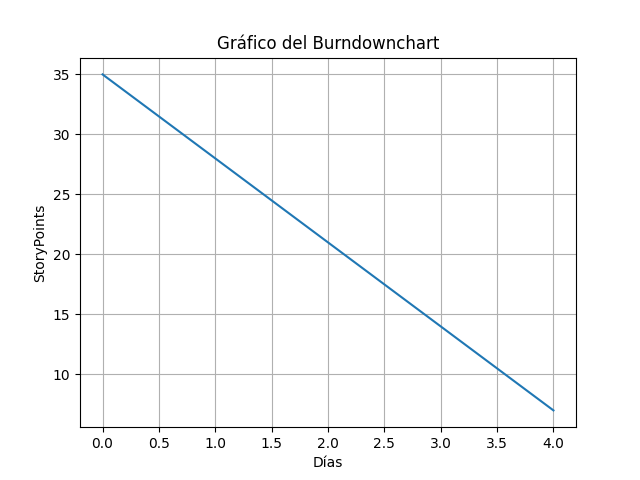
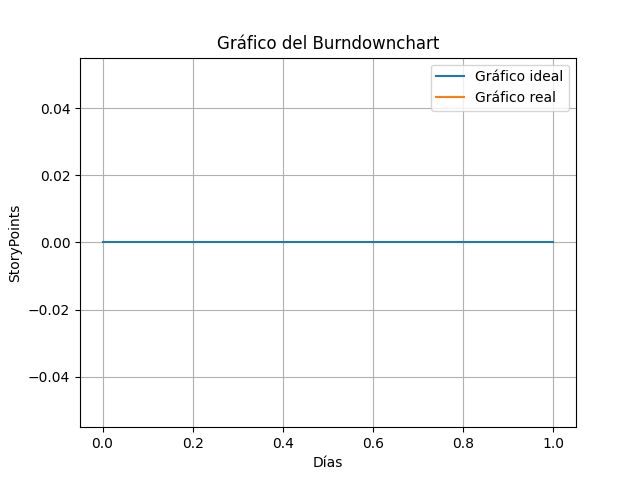
grafico ideal, ok

diff --git a/sprint/templates/sprint_kanban.html b/sprint/templates/sprint_kanban.html
@@ -87,9 +87,11 @@
                                    class="btn btn-primary">Sprint Backlog</a>
                             {% endif %}
 
-                            {% if i.codename == 'view_historialtarea' %}
-                                <a href="{% url 'burndown_chart' Proyecto.id sprint.id %}"
-                                   class="btn btn-primary">Burndown Chart</a>
+                            {% if sprint.estado == 2 %}
+                                {% if i.codename == 'view_historialtarea' %}
+                                    <a href="{% url 'burndown_chart' Proyecto.id sprint.id %}"
+                                    class="btn btn-primary">Burndown Chart</a>
+                                {% endif %}
                             {% endif %}
 
                         {% endfor %}

diff --git a/sprint/views.py b/sprint/views.py
@@ -46,33 +46,73 @@ def ver_burndownchart(request, pk, sp_pk):
         'Tarea': tarea,
         'Proyecto': proj,
     }
+
+
     # PARAMETROS PARA EL GRAFICO DEL BURNDOWNCHART IDEAL
     # calculo del sp del sprint
     sp = 0
-    for objeto in us:
-        # se van sumando todos los storypoints de cada us
-        sp = sp + objeto.storypoints
+    us_terminados = []
+    # se van sumando todos los storypoints de cada us
+    for objeto in sprint.us.all():
+        # traemos el ultimo historial suyo
+        histo = HistorialUs.objects.filter(ustory=objeto.id).last().storypoints
+        if(histo is None): # si es none sumamos cero
+            sp = sp + 0
+        else: # sino sumamos el valor devuelto
+            sp = sp + histo
+
+        # traemos la ultima modificacion del us
+        ultima_modif = HistorialUs.objects.filter(ustory=objeto.id).last()
+        # si esta ultima modificacion tiene estado 4
+        if(ultima_modif.estado == 4): # esta en el done
+            # está terminado
+            us_terminados.append(ultima_modif)
+
+    print(us_terminados)
     #calculo de la duracion del sprint
     fecha_inicio = sprint.fecha_incio
     fecha_fin = sprint.fecha_fin
+
     # duracion del sprint en dias
-    #dias = (fecha_fin-fecha_inicio).days
-    dias = 5
+    dias = (fecha_fin-fecha_inicio).days
     # generacion del eje x del burndownchart
-    x = np.arange(0, dias, 1)
+    x1 = np.arange(0, dias+1, 1)
     # funcion del eje y
-    y = sp - (sp*x/dias)
+    y1 = sp - (sp*x1/dias)
 
-    figura, ax = plt.subplots()
-    ax.plot(x, y)
+    figura, ax1 = plt.subplots()
+    ax1.plot(x1, y1, label='Gráfico ideal')
 
-    ax.set(
+    # seran listas que contendran los valores a ser ploteados
+    x2 = []
+    y2 = []
+
+    # los valores iniciales de x y de y sí son conocidos
+    
+    # el valor inicial de x debe ser 0
+    x2.append(0)
+    # el valor inicial de y debe ser igual a la cantidad de storypoints a ser realizados
+    y2.append(sp)
+
+    for terminado in us_terminados:
+        print(fecha_inicio)
+        print(terminado.fecha_modificacion.date())
+        x2.insert( (terminado.fecha_modificacion.date()-fecha_inicio).days,  (terminado.fecha_modificacion.date()-fecha_inicio).days)
+        y2.insert( (terminado.fecha_modificacion.date()-fecha_inicio).days, terminado.storypoints )
+
+    print(x2)
+    print(y2)
+
+    ax1.plot(x2, y2, label='Gráfico real')
+
+    ax1.set(
         xlabel='Días',
         ylabel='StoryPoints',
         title='Gráfico del Burndownchart'
     )
 
-    ax.grid()
+    ax1.grid()
+    ax1.legend()
 
     figura.savefig("burndownchart.png")
     plt.show()

diff --git a/us/models.py b/us/models.py
@@ -33,7 +33,6 @@ class Us(models.Model):
     )
     project = models.ForeignKey(Proyecto, on_delete=models.CASCADE, blank=True, null=False)
     user=models.ForeignKey(Miembro, on_delete=models.CASCADE, blank=True, null=True)
-    #sprint=models.ForeignKey(Sprint, on_delete=models.CASCADE, blank=True, null=True)
     activo= models.BooleanField(default=True)
     etiqueta = models.ForeignKey(Etiqueta, on_delete=models.CASCADE, null=True, blank=True)
 
